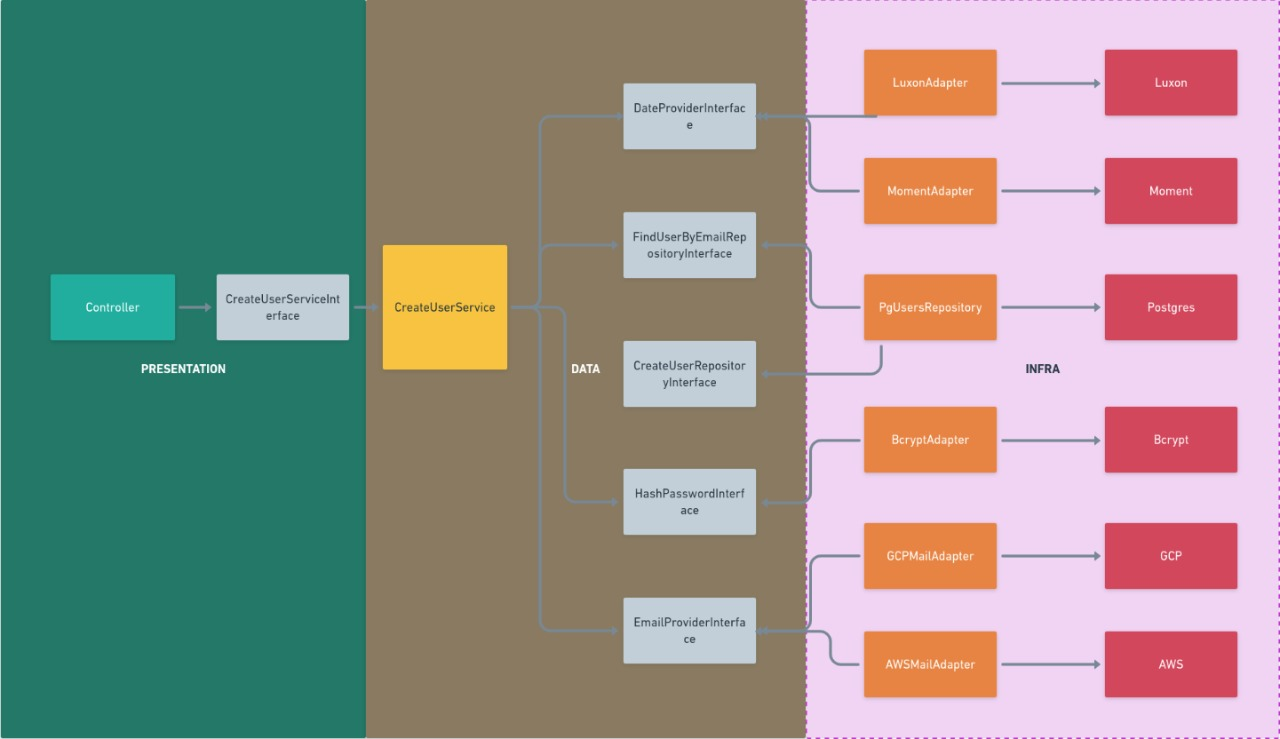
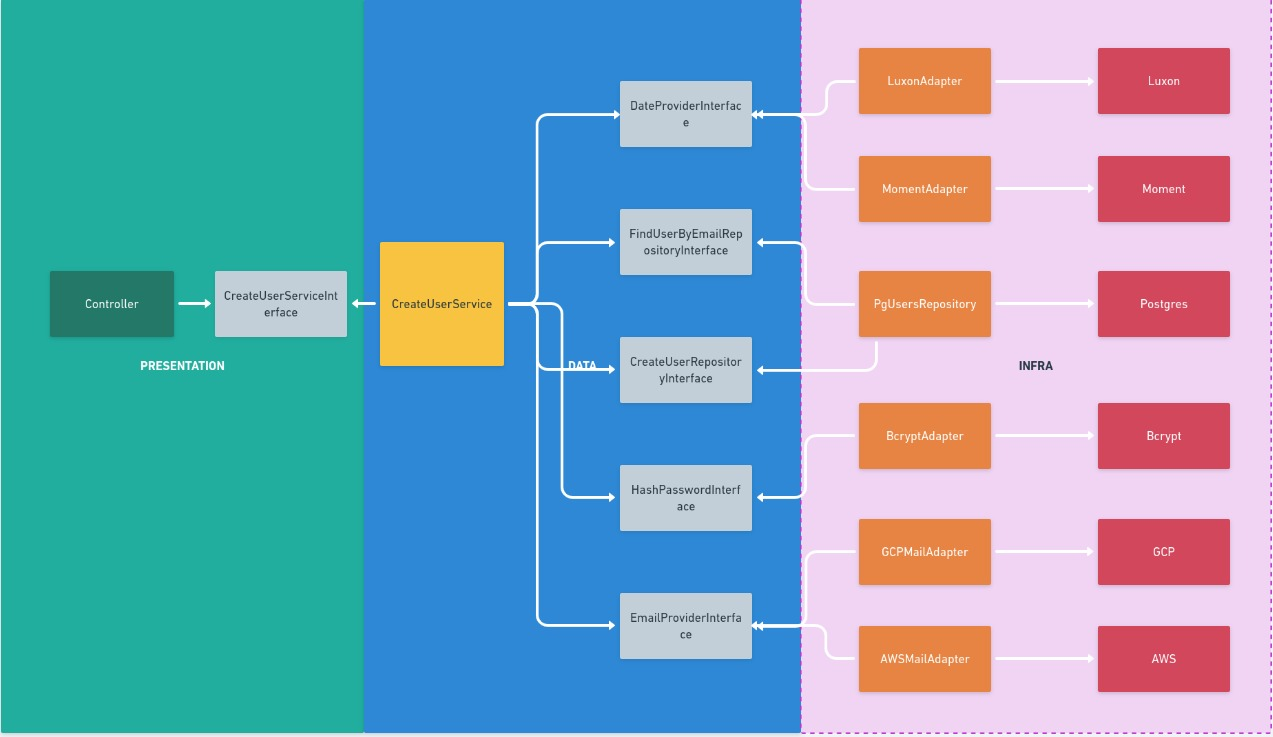
documentaçao

diff --git a/README.MD b/README.MD
@@ -27,6 +27,6 @@ O design pattern da injeção de dependencias é utilizado para implementar o co
 <img src="https://i.ibb.co/zRb6wvT/acoplamento.jpg" alt="Alto acoplamento"/>
 
 > # Exemplo arquitetura com baixo acoplamento
-<img src="https://i.ibb.co/YcrFP2W/baixo-acoplamento.jpg" alt="Baixo acoplamento"/>
+<img src="https://i.ibb.co/1J2DMyL/baixo-acoplamento.jpg" alt="Baixo acoplamento"/>
 
 # [Fluxograma](https://whimsical.com/inversao-de-dependencias-BeCwsiLss8XvEhEYeKmJbz)
